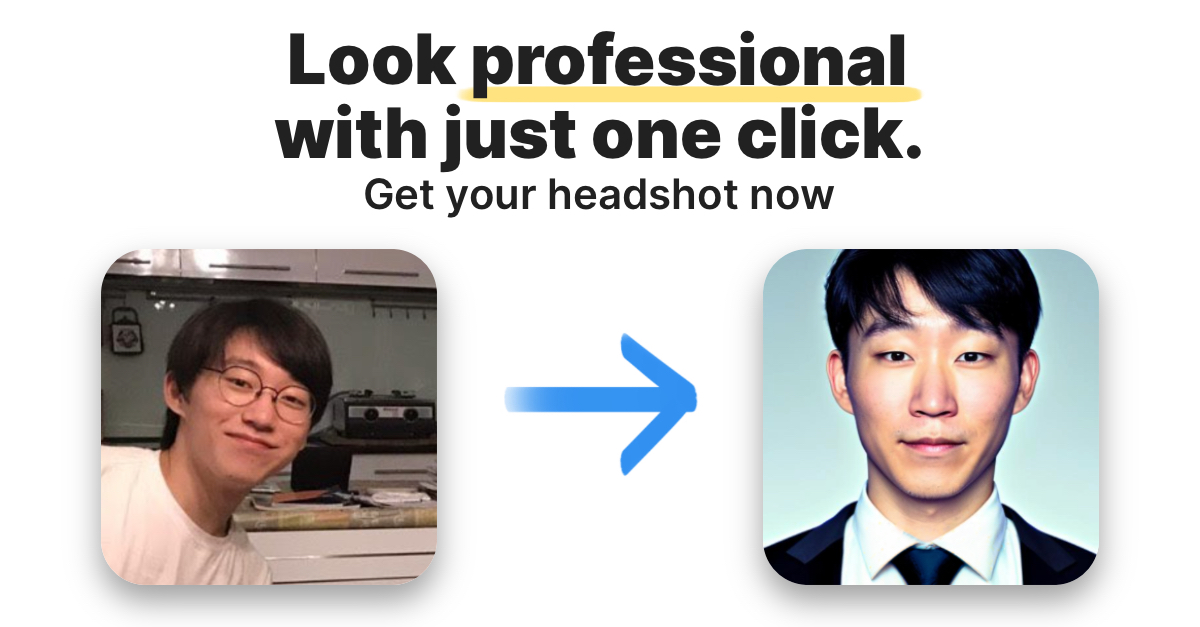
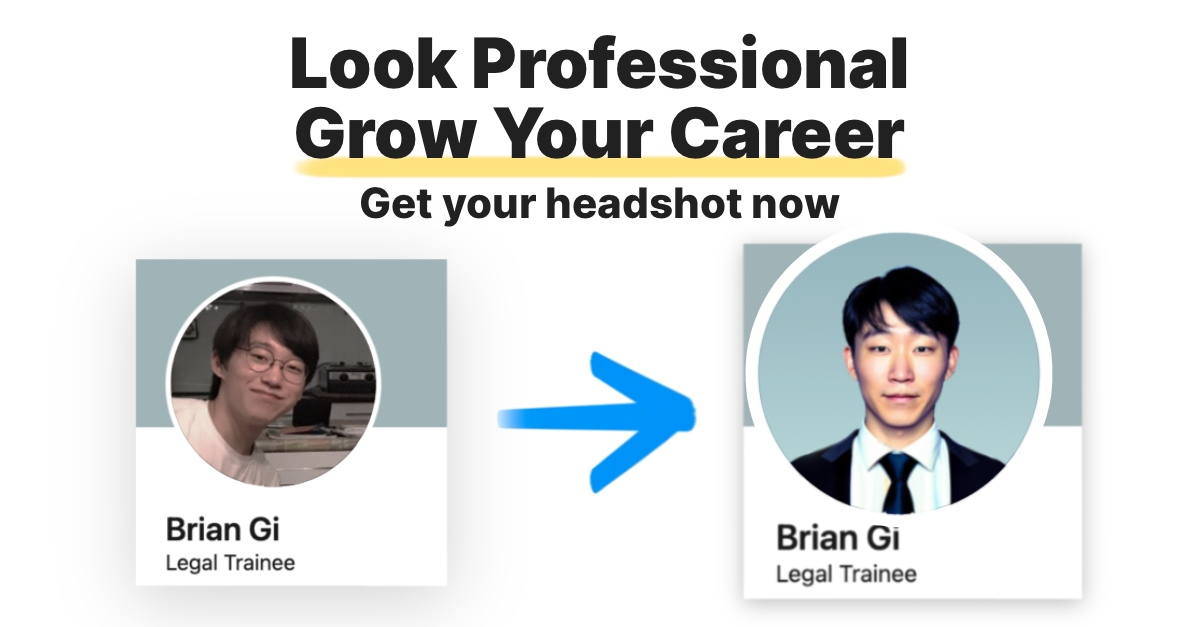
revamp

diff --git a/style.css b/style.css
@@ -97,7 +97,7 @@ padding-top: 20px;
 }
 
 .hero-container {
-  max-width: 1200px;
+  max-width: 1100px;
   display: flex;
   flex-direction: row;
   justify-content: space-between;
@@ -141,7 +141,7 @@ padding-top: 20px;
   height: 10px;
   background-color: #FFE381;
   z-index: -1;
-  width: 320px;
+  width: 400px;
 }
 
 .hero-subtext-container {
@@ -151,51 +151,14 @@ padding-top: 20px;
 .hero-subtext {
     font-weight: 600;
     color: #374151;
-    font-size: 20px;
+    font-size: 25px;
     letter-spacing: -0.5px;
-}
-
-.welcome-section {
-  width: 100%;
-  margin-top: 16px;
-  display: block;
-  color: #4C4C4C;
-  font-weight: 500;
-  letter-spacing: -0.5px;
-}
-
-.welcome-section p {
-  line-height: 25px;
-  margin-top: 8px;
-}
-
-.hero-list-container {
-  margin-top: 10px;
-  font-size: 15px;
-  color: #4C4C4C;
-}
-
-.hero-list-item {
-  display: flex;
-  align-items: center;
-  margin-top: 5px;
-  font-weight: 500;
-}
-
-.tick-icon {
-  display: block;
-  margin-right: 5px;
-  width: 16px;
-  min-width: 16px;
-}
-
-.list-text {
-  line-height: 20px;
+    margin-top: 20px
 }
 
 .button-container {
   display: flex;
-  margin-top: 25px;
+  margin-top: 30px;
 }
 
 .button {
@@ -216,6 +179,12 @@ padding-top: 20px;
   background-color: #0177ED;
 }
 
+.button-subtext {
+  margin-top: 5px; 
+  margin-left: 80px; 
+  font-size: 13px; 
+}
+
 .hero-right {
   width: 50%;
   display: block;
@@ -223,7 +192,7 @@ padding-top: 20px;
 
 .hero-right img {
   display: block;
-  max-width: 500px;
+  max-width: 400px;
   width: 100%;
   margin-left: auto;
   margin-right: auto;
@@ -233,7 +202,7 @@ padding-top: 20px;
 /*testimonials*/
 
 .testimonials-section {
-  padding-top: 64px;
+  padding-top: 32px;
   padding-left: 5%;
   padding-right: 5%;
   padding-bottom: 0px;
@@ -420,6 +389,7 @@ padding-top: 20px;
 
 .package-section {
   padding: 2rem 4%;
+  margin-top: 32px;
 }
 
 .package-container {
@@ -472,7 +442,6 @@ padding-top: 20px;
   margin-left: auto;
   margin-right: auto;
   height: auto;
-  margin-top: 32px;
 }
 
 .package-image {
@@ -626,7 +595,7 @@ padding-top: 20px;
   height: 8px;
   background-color: #FFE381;
   z-index: -1;
-  width: 450px;
+  width: 420px;
 }
 
 /*footer*/
@@ -841,6 +810,14 @@ footer {
   
 }
 
+@media (min-width : 768px) and (max-width: 917px) {
+
+  .hero-text-underline::before {
+   display: none;
+  }
+
+}
+
 @media (min-width: 768px) and (max-width: 1280px) {
   
   .hero-left {
@@ -921,7 +898,7 @@ footer {
   left: 50%;
   right: 50%;
   transform: translate(-50%, 0);
-  width: 350px;
+  width: 410px;
 }
 
 .hero {
@@ -949,6 +926,10 @@ footer {
   text-align: center;
   margin: auto;
   display: grid;
+}
+
+.button-subtext {
+  margin-left: 0px;
 }
 
 .contact-container {
@@ -982,6 +963,11 @@ footer {
   align-items: center;
   justify-content: center;
   display: flex;
+  background-image: url(images/checkout-background.jpg);
+  background-size: contain;
+  background-position: 50%;
+  height: 100vh;
+  width: 100vw;
 }
 
 .checkout-home {
@@ -1096,6 +1082,20 @@ footer {
   justify-content: flex-end;
   grid-column: span 2/span 2;
   display: flex;
+}
+
+.paybutton-container a {
+  text-decoration: none;
+  --tw-shadow: 0 1px 2px 0 rgba(0, 0, 0, 0.05);
+  box-shadow: var(--tw-ring-offset-shadow,0 0 #0000),var(--tw-ring-shadow,0 0 #0000),var(--tw-shadow);
+  --tw-border-opacity: 1;
+    border-color: rgba(209,213,219,var(--tw-border-opacity));
+    border-width: 1px;
+    border-radius: 0.375rem;
+    justify-content: center;
+    align-items: center;
+    display: flex;
+    cursor: pointer;
 }
 
 .paybutton {

diff --git a/index.php b/index.php
@@ -6,37 +6,35 @@
 
      <div class="hero-left">
         <div class="hero-text-container">
-          <p class="hero-text">Look Professional,  </p>
-          <p class="hero-text-underline">Feel Confident.</p>
+          <p class="hero-text">Look Professional,</p>
+          <p class="hero-text-underline">Grow Your Career.</p>
         </div>
 
         <div class="hero-subtext-container">
-            <p class="hero-subtext">Your perfect headshot is just a click away.</p>
+            <p class="hero-subtext">Make your first impression count.</p>
         </div>
 
-        <div class="welcome-section">
-          <p>Your career deserves attention and respect. Make the perfect first impression count.  
-          </p>
-        </div>
 
+        <!--
         <div class="hero-list-container">
           <div class="hero-list-item">
             <svg class="tick-icon" viewBox="0 0 20 20" fill="green"><path fill-rule="evenodd" d="M16.704 4.153a.75.75 0 01.143 1.052l-8 10.5a.75.75 0 01-1.127.075l-4.5-4.5a.75.75 0 011.06-1.06l3.894 3.893 7.48-9.817a.75.75 0 011.05-.143z" clip-rule="evenodd"></path></svg>
-            <span class="list-text">14+ high-quality photos at 4K resolution (4096x4096), perfect for LinkedIn.</span>
+            <span class="list-text">14+ 4K high-resolution photos — perfect for LinkedIn.</span>
           </div>
           <div class="hero-list-item">
             <svg class="tick-icon" viewBox="0 0 20 20" fill="green"><path fill-rule="evenodd" d="M16.704 4.153a.75.75 0 01.143 1.052l-8 10.5a.75.75 0 01-1.127.075l-4.5-4.5a.75.75 0 011.06-1.06l3.894 3.893 7.48-9.817a.75.75 0 011.05-.143z" clip-rule="evenodd"></path></svg>
-            <span class="list-text">Each photo is unique. 5 minute process. 24 hour turnaround.</span>
+            <span class="list-text"></span>
           </div>
           <div class="hero-list-item">
             <svg class="tick-icon" viewBox="0 0 20 20" fill="green"><path fill-rule="evenodd" d="M16.704 4.153a.75.75 0 01.143 1.052l-8 10.5a.75.75 0 01-1.127.075l-4.5-4.5a.75.75 0 011.06-1.06l3.894 3.893 7.48-9.817a.75.75 0 011.05-.143z" clip-rule="evenodd"></path></svg>
             <span class="list-text"><a href="#faq-header" style="color: #4C4C4C;">Your photos are 100% safe with us.</a></span>
           </div>
         </div>
-
+        -->
         <div class="button-container">
-          <a href="checkout.php" class="button">Get your headshot now.</a>
+          <a href="checkout.php" class="button">Get your headshots now.</a>
         </div>
+        <p class="button-subtext"> 2-minute process </p>
     </div>
   <div class="hero-right">
     <img src="images/hero-image.jpg" class="hero-image">
@@ -47,30 +45,19 @@
 
 <!-- body section -->
 
-
 <div class="package-section">
   <div class="package-container">
     <div class="package-header">
-    <h3>Get professional photos with one click.</h3>
-    <p> Why waste countless hours and money on a photoshoot when you can get it all done in just under 5 minutes.</p>
+    <h3>Increase your chances of getting that dream job.</h3>
+    <p>Become a professional others want to work with. </p>
     </div>
     <div class="package-image">
-      <img src="images/process.jpg" class="process-image">
+      <img src="images/solution.jpg" class="process-image">
     </div>
   </div>
 </div>
 
-<div class="cta-section">
-  <div class="cta-container">
-    <div class="cta-header">
-      <p>Try it out now</p>
-      <h3>Make a <span class="cta-underline">lasting first impression</span> with the perfect headshots.</h3>
-    </div>
-    <div class="button-cta-container">
-      <a href="checkout.php" class="button-cta">Get your headshots now</a>
-   </div>
-  </div>
-</div>
+<!-- features -->
 
 <!-- testimonials section -->
 
@@ -78,7 +65,7 @@
   <div class="testimonials-container">
     <div class="testimonials-header">
     <!-- <h3><span class="testimonial-underline-first">1000+</span> professional headshots already created for <span class="testimonial-underline-second">over 100</span> happy clients.</h3> -->
-    <h3> Professionals left satisfied </h3>
+    <h3> Other professionals left satisfied </h3>
     <p>Look at what other professionals are saying about us: </p>
     <p style= margin-top:0px;> -> -> </p>
     </div>
@@ -146,7 +133,29 @@
 </div>
 -->
 
+<div class="package-section">
+  <div class="package-container">
+    <div class="package-header">
+    <h3>Become a professional others want to work with.</h3>
+    <p> Why waste countless hours and money on a photoshoot when you can get it all done in just under 2 minutes.</p>
+    </div>
+    <div class="package-image">
+      <img src="images/process.jpg" class="process-image">
+    </div>
+  </div>
+</div>
 
+<div class="cta-section">
+  <div class="cta-container">
+    <div class="cta-header">
+      <p>Try it out now</p>
+      <h3>Make a <span class="cta-underline">lasting first impression</span> with the perfect headshots.</h3>
+    </div>
+    <div class="button-cta-container">
+      <a href="checkout.php" class="button-cta">Get your headshots now</a>
+   </div>
+  </div>
+</div>
 
 <div class="faq-section">
   <div class="faq-container">

diff --git a/checkout.php b/checkout.php
@@ -59,8 +59,7 @@
             <div class="whole-container">
                 <div class="upper-box">
                         <h3>Select your package</h3>
-                        <h4 class="package-subtext">Your career deserves attention and respect. One-time payment only.</h4>
-                        <h4 class="package-subtext">Get professional photos at an affordable price.</h4>
+                        <h4 class="package-subtext">One-time payment only.</h4>
                         <div class="packages">
                             <div class="packages-section">
                                 <div class="package-text">
